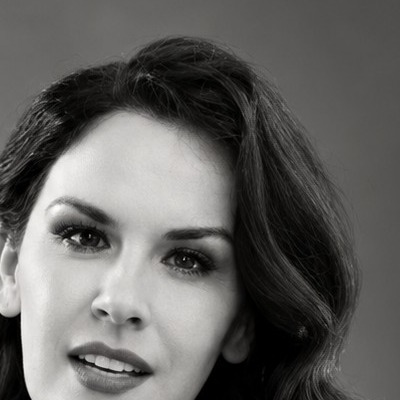
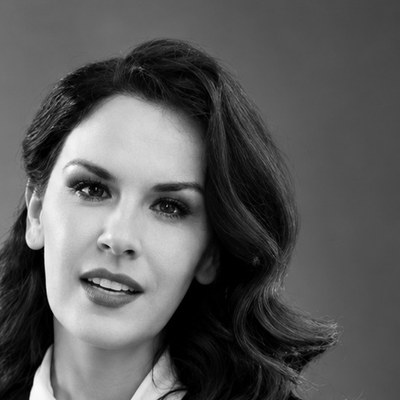
Описание изменений

diff --git a/business-program/index.html b/business-program/index.html
@@ -14,7 +14,7 @@
 <meta name="apple-mobile-web-app-title" content="АЭЛИТА">
 <meta name="viewport" content="width=device-width, initial-scale=1.0">
 <title>Деловая программа — «Точка Кюри» — AELITA PRODUCTION</title>
-<meta name="description" content="Семь лекций и встреч фестиваля «Точка Кюри», 22–24 октября: Катя Абдулова, Мария Павлова, Алёна Бычкова, Михаил Казмирук, Алексей Цымлов, Катя Абдулова, Александра Губанова. Вход свободный.">
+<meta name="description" content="Семь лекций и встреч фестиваля «Точка Кюри», 22–24 октября: Катя Абдулова, Алексей Цымлов, Мария Павлова, Алёна Бычкова, Михаил Казмирук, Александра Губанова. Все события бесплатные; на часть нужна регистрация.">
 <link rel="canonical" href="https://aelita-production.ru/business-program/">
 <link rel="alternate" hreflang="ru" href="https://aelita-production.ru/business-program/">
 <link rel="alternate" hreflang="en" href="https://aelita-production.ru/en/business-program/">
@@ -23,12 +23,12 @@
 <meta property="og:url" content="https://aelita-production.ru/business-program/">
 <meta property="og:site_name" content="AELITA PRODUCTION">
 <meta property="og:title" content="Деловая программа — «Точка Кюри» — AELITA PRODUCTION">
-<meta property="og:description" content="Семь лекций и встреч фестиваля «Точка Кюри», 22–24 октября: Катя Абдулова, Мария Павлова, Алёна Бычкова, Михаил Казмирук, Алексей Цымлов, Катя Абдулова, Александра Губанова. Вход свободный.">
+<meta property="og:description" content="Семь лекций и встреч фестиваля «Точка Кюри», 22–24 октября: Катя Абдулова, Алексей Цымлов, Мария Павлова, Алёна Бычкова, Михаил Казмирук, Александра Губанова. Все события бесплатные; на часть нужна регистрация.">
 <meta property="og:image" content="https://aelita-production.ru/images/og-default.jpg">
 <meta property="og:locale" content="ru_RU">
 <meta name="twitter:card" content="summary_large_image">
 <meta name="twitter:title" content="Деловая программа — «Точка Кюри» — AELITA PRODUCTION">
-<meta name="twitter:description" content="Семь лекций и встреч фестиваля «Точка Кюри», 22–24 октября: Катя Абдулова, Мария Павлова, Алёна Бычкова, Михаил Казмирук, Алексей Цымлов, Катя Абдулова, Александра Губанова. Вход свободный.">
+<meta name="twitter:description" content="Семь лекций и встреч фестиваля «Точка Кюри», 22–24 октября: Катя Абдулова, Алексей Цымлов, Мария Павлова, Алёна Бычкова, Михаил Казмирук, Александра Губанова. Все события бесплатные; на часть нужна регистрация.">
 <meta name="twitter:image" content="https://aelita-production.ru/images/og-default.jpg">
 <link rel="preconnect" href="https://fonts.googleapis.com">
 <link rel="preconnect" href="https://fonts.gstatic.com" crossorigin>
@@ -79,7 +79,7 @@
   <div class="wrap">
     <p class="eyebrow">«Точка Кюри» · Деловая программа</p>
     <h1>Разговоры о том, как всё устроено</h1>
-    <p class="sub" style="color:var(--sand);font-size:16px;max-width:60ch;margin-top:14px">Семь лекций и встреч для тех, кто делает культуру и продукты: как живёт современный танец в реальной экономике, что меняет искусственный интеллект в профессии и как устроен русский культурный код. Вход свободный.</p>
+    <p class="sub" style="color:var(--sand);font-size:16px;max-width:60ch;margin-top:14px">Семь лекций и встреч для тех, кто делает культуру и продукты: как живёт современный танец в реальной экономике, что меняет искусственный интеллект в профессии и как устроен русский культурный код. Все события бесплатные.</p>
     <p class="sub" style="color:var(--sand);font-size:14px;max-width:60ch;margin-top:10px">Куратор деловой программы — <a href="/gubanova" style="color:var(--gold)">Александра Губанова</a>. Регистрация — на Timepad, кнопка «Записаться» есть в карточке каждой лекции; на 22 октября — по пригласительным, регистрации через сайт нет.</p>
     <a class="btn-outline" href="/tochkacuire" style="display:inline-block;margin-top:24px">← К фестивалю «Точка Кюри»</a>
   </div>

diff --git a/en/business-program/index.html b/en/business-program/index.html
@@ -14,7 +14,7 @@
 <meta name="apple-mobile-web-app-title" content="AELITA">
 <meta name="viewport" content="width=device-width, initial-scale=1.0">
 <title>Business Programme — “Tochka Cuire” — AELITA PRODUCTION</title>
-<meta name="description" content="Seven talks and meetings at the “Tochka Cuire” festival, October 22–24: Katya Abdulova, Maria Pavlova, Alyona Bychkova, Mikhail Kazmiruk, Alexey Tsymlov, Katya Abdulova, Alexandra Gubanova. Free entry.">
+<meta name="description" content="Seven talks and meetings at the “Tochka Cuire” festival, October 22–24: Katya Abdulova, Alexey Tsymlov, Maria Pavlova, Alyona Bychkova, Mikhail Kazmiruk, Alexandra Gubanova. All events are free; some require registration.">
 <link rel="canonical" href="https://aelita-production.ru/en/business-program/">
 <link rel="alternate" hreflang="ru" href="https://aelita-production.ru/business-program/">
 <link rel="alternate" hreflang="en" href="https://aelita-production.ru/en/business-program/">
@@ -26,12 +26,12 @@
 <meta property="og:url" content="https://aelita-production.ru/en/business-program/">
 <meta property="og:site_name" content="AELITA PRODUCTION">
 <meta property="og:title" content="Business Programme — “Tochka Cuire” — AELITA PRODUCTION">
-<meta property="og:description" content="Seven talks and meetings at the “Tochka Cuire” festival, October 22–24: Katya Abdulova, Maria Pavlova, Alyona Bychkova, Mikhail Kazmiruk, Alexey Tsymlov, Katya Abdulova, Alexandra Gubanova. Free entry.">
+<meta property="og:description" content="Seven talks and meetings at the “Tochka Cuire” festival, October 22–24: Katya Abdulova, Alexey Tsymlov, Maria Pavlova, Alyona Bychkova, Mikhail Kazmiruk, Alexandra Gubanova. All events are free; some require registration.">
 <meta property="og:image" content="https://aelita-production.ru/images/og-default.jpg">
 <meta property="og:locale" content="en_GB">
 <meta name="twitter:card" content="summary_large_image">
 <meta name="twitter:title" content="Business Programme — “Tochka Cuire” — AELITA PRODUCTION">
-<meta name="twitter:description" content="Seven talks and meetings at the “Tochka Cuire” festival, October 22–24: Katya Abdulova, Maria Pavlova, Alyona Bychkova, Mikhail Kazmiruk, Alexey Tsymlov, Katya Abdulova, Alexandra Gubanova. Free entry.">
+<meta name="twitter:description" content="Seven talks and meetings at the “Tochka Cuire” festival, October 22–24: Katya Abdulova, Alexey Tsymlov, Maria Pavlova, Alyona Bychkova, Mikhail Kazmiruk, Alexandra Gubanova. All events are free; some require registration.">
 <meta name="twitter:image" content="https://aelita-production.ru/images/og-default.jpg">
 <link rel="preconnect" href="https://fonts.googleapis.com">
 <link rel="preconnect" href="https://fonts.gstatic.com" crossorigin>
@@ -82,7 +82,7 @@
   <div class="wrap">
     <p class="eyebrow">“Tochka Cuire” · Business Programme</p>
     <h1>Conversations about how it all works</h1>
-    <p class="sub" style="color:var(--sand);font-size:16px;max-width:60ch;margin-top:14px">Seven talks and meetings for people who make culture and products: how contemporary dance lives in the real economy, what artificial intelligence is changing in the profession, and how the Russian cultural code works. Free entry.</p>
+    <p class="sub" style="color:var(--sand);font-size:16px;max-width:60ch;margin-top:14px">Seven talks and meetings for people who make culture and products: how contemporary dance lives in the real economy, what artificial intelligence is changing in the profession, and how the Russian cultural code works. All events are free.</p>
     <p class="sub" style="color:var(--sand);font-size:14px;max-width:60ch;margin-top:10px">Curator of the business programme — <a href="/en/gubanova" style="color:var(--gold)">Alexandra Gubanova</a>. Registration — on Timepad, the “Register” button is in each talk's card; for October 22 — by invitation only, no registration through the site.</p>
     <a class="btn-outline" href="/en/tochkacuire" style="display:inline-block;margin-top:24px">← Back to “Tochka Cuire”</a>
   </div>
